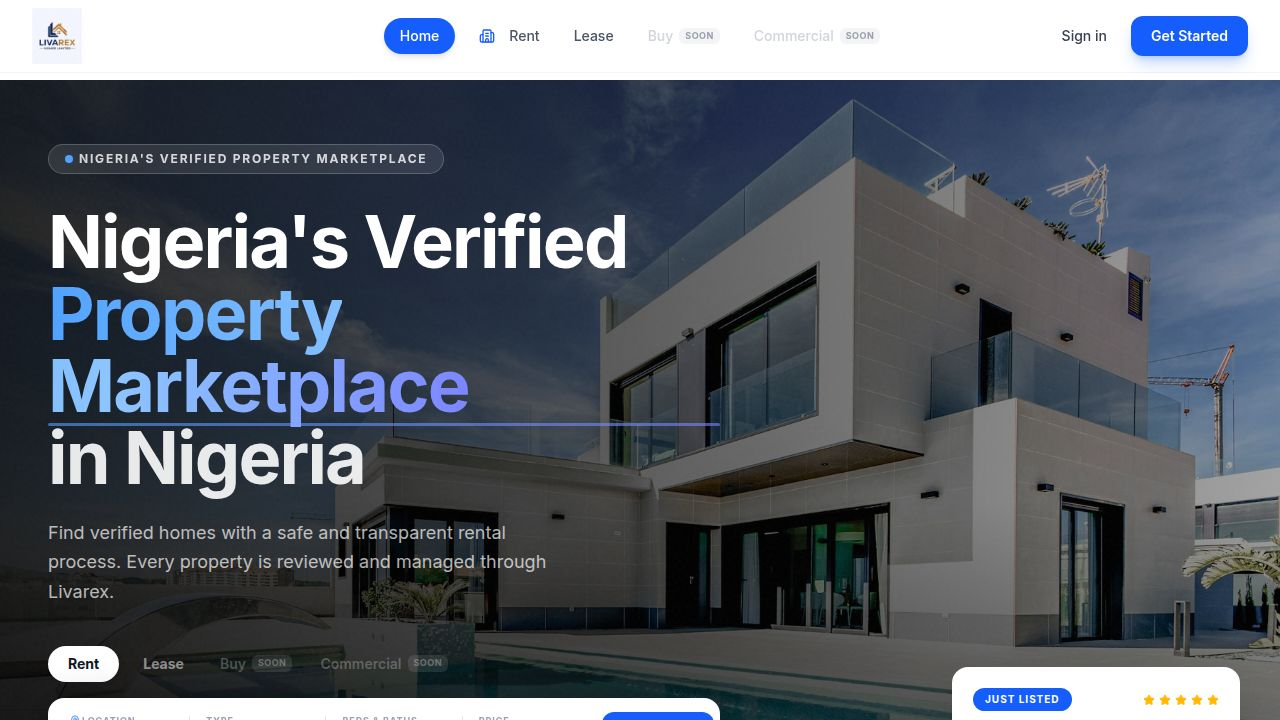
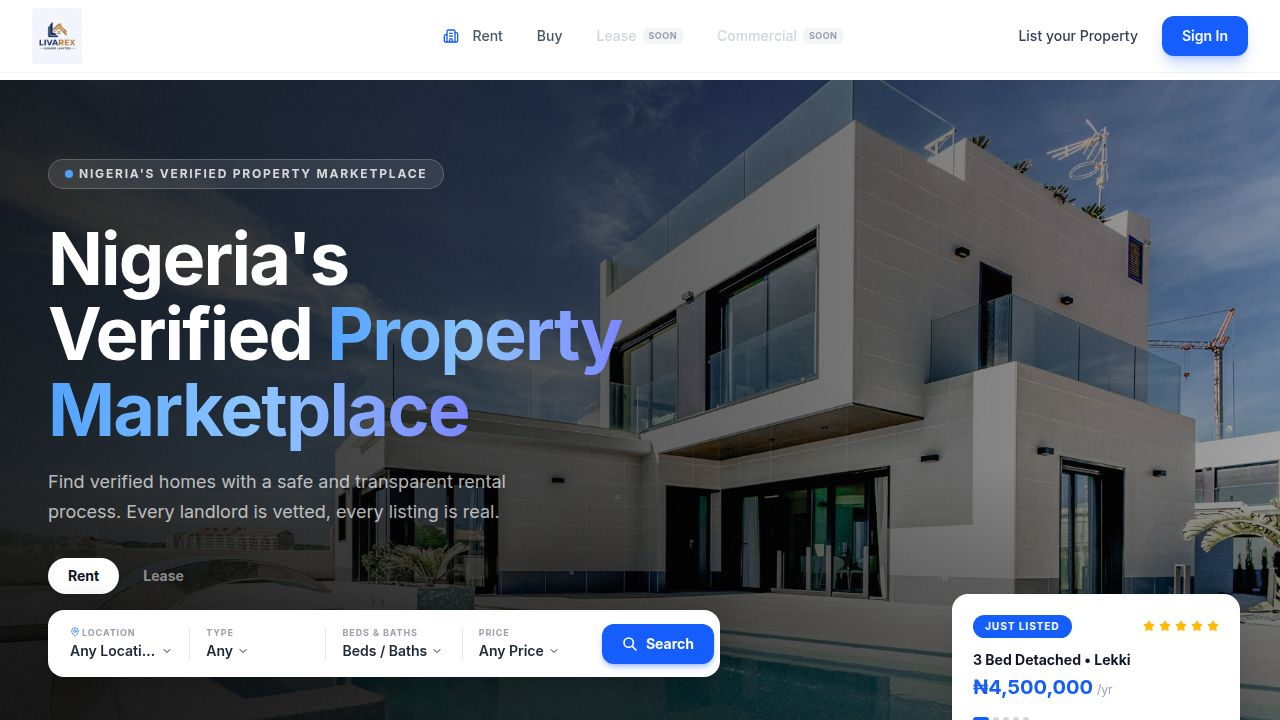
Update navbar: remove Snagging, add Coming Soon to Lease & Commercial, fix Sign In button
- Removed "Snagging" from navigation entirely
- "Lease" and "Commercial" now show greyed-out "SOON" badges (not clickable)
- "List your Property" now links to /partner
- "Sign In" changed from plain text link to Livarex brand blue button
- Updated mobile menu to match all desktop changes
- Fixed missing react-helmet-async package (brought in by GitHub's main.tsx)

diff --git a/artifacts/property-manager/src/components/layout/PublicNavbar.tsx b/artifacts/property-manager/src/components/layout/PublicNavbar.tsx
@@ -41,9 +41,10 @@ export default function PublicNavbar() {
   const isActive = (path: string) => location === path || location.startsWith(path + '/')
 
   const navLinks = [
-    { href: '/', label: 'Home', comingSoon: false },
     { href: '/listings?type=rent', label: 'Rent', comingSoon: false },
-    { href: '/listings?type=lease', label: 'Lease', comingSoon: false },
+    { href: '/listings?type=buy', label: 'Buy', comingSoon: false },
+    { href: null, label: 'Lease', comingSoon: true },
+    { href: null, label: 'Commercial', comingSoon: true },
   ]
 
   const isHomePage = location === '/'
@@ -123,11 +124,11 @@ export default function PublicNavbar() {
             </>
           ) : (
             <>
-              <Link href="/login" className="text-sm font-medium px-4 py-2 rounded-lg transition-all text-gray-700 hover:text-gray-900 hover:bg-gray-50">
-                Sign in
+              <Link href="/partner" className="text-sm font-medium px-4 py-2 rounded-lg transition-all text-gray-700 hover:text-gray-900 hover:bg-gray-50">
+                List your Property
               </Link>
-              <Link href="/register" className="text-sm font-semibold bg-blue-600 hover:bg-blue-700 text-white px-5 py-2.5 rounded-xl transition-all shadow-lg shadow-blue-600/25 hover:shadow-blue-600/40">
-                Get Started
+              <Link href="/login" className="text-sm font-semibold bg-blue-600 hover:bg-blue-700 text-white px-5 py-2.5 rounded-xl transition-all shadow-lg shadow-blue-600/25 hover:shadow-blue-600/40">
+                Sign In
               </Link>
             </>
           )}
@@ -136,8 +137,8 @@ export default function PublicNavbar() {
         {/* Mobile: right-side controls */}
         <div className="flex items-center gap-2 md:hidden">
           {!user && (
-            <Link href="/register" className="text-xs font-semibold bg-blue-600 text-white px-3 py-2 rounded-xl hover:bg-blue-700 transition-all whitespace-nowrap">
-              Get Started
+            <Link href="/login" className="text-xs font-semibold bg-blue-600 text-white px-3 py-2 rounded-xl hover:bg-blue-700 transition-all whitespace-nowrap">
+              Sign In
             </Link>
           )}
           <button
@@ -192,8 +193,8 @@ export default function PublicNavbar() {
               </>
             ) : (
               <>
-                <Link href="/login" onClick={() => setMenuOpen(false)} className="block px-4 py-3 text-sm font-medium text-gray-700 hover:bg-gray-50 rounded-xl">Sign in</Link>
-                <Link href="/register" onClick={() => setMenuOpen(false)} className="block px-4 py-3 text-sm font-semibold bg-blue-600 text-white rounded-xl text-center hover:bg-blue-700 transition-colors shadow-lg shadow-blue-600/25">Get Started</Link>
+                <Link href="/partner" onClick={() => setMenuOpen(false)} className="block px-4 py-3 text-sm font-medium text-gray-700 hover:bg-gray-50 rounded-xl">List your Property</Link>
+                <Link href="/login" onClick={() => setMenuOpen(false)} className="block px-4 py-3 text-sm font-semibold bg-blue-600 text-white rounded-xl text-center hover:bg-blue-700 transition-colors shadow-lg shadow-blue-600/25">Sign In</Link>
               </>
             )}
           </div>